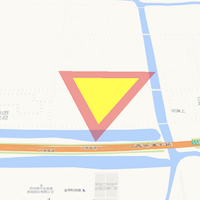
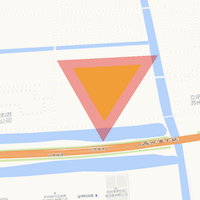
添加turf相关示例

diff --git a/pages/analysis/polygon_rotate.html b/pages/analysis/polygon_rotate.html
@@ -7,6 +7,9 @@
     let baselayer = DC.ImageryLayerFactory.createAmapImageryLayer({
       crs:"WSG84"
     })
+    viewer.setOptions({
+      enableFxaa:true
+    })
     viewer.addBaseLayer(baselayer)
     let layer = new DC.VectorLayer('layer')
     viewer.addLayer(layer)
@@ -15,21 +18,16 @@
       material:DC.Color.YELLOW
     })
     layer.addOverlay(polygon)
-    let coords = DC.GeoTools.transformPolygonScale("120.71259021075333,31.22148081085083;120.71611354431036,31.221447256684566;120.7140691869497,31.21875584696343",1.5)
-    let buffer = new DC.Polygon(coords)
-    buffer.setStyle({
+    let coords = DC.GeoTools.transformPolygonRotate("120.71259021075333,31.22148081085083;120.71611354431036,31.221447256684566;120.7140691869497,31.21875584696343",45)
+    polygon = new DC.Polygon(coords)
+    polygon.setStyle({
       zIndex:1,
-      material:DC.Color.RED.withAlpha(0.4)
+      material:DC.Color.RED.withAlpha(0.5)
     })
-    layer.addOverlay(buffer)
+    layer.addOverlay(polygon)
     viewer.flyTo(layer)
   }
   DC.ready(initViewer)
 </script>
-
-
-
-
-
 
 

diff --git a/pages/analysis/polyline_rotate.html b/pages/analysis/polyline_rotate.html
@@ -1,0 +1,34 @@
+<div id="viewer-container"></div>
+<script>
+  let viewer = undefined
+
+  function initViewer() {
+    viewer = new DC.Viewer('viewer-container')
+    let baselayer = DC.ImageryLayerFactory.createAmapImageryLayer({
+      crs:"WSG84"
+    })
+    viewer.setOptions({
+      enableFxaa:true
+    })
+    viewer.addBaseLayer(baselayer)
+    let layer = new DC.VectorLayer('layer')
+    viewer.addLayer(layer)
+    let polyline = new DC.Polyline("120.71259021075333,31.22148081085083;120.71611354431036,31.221447256684566")
+    polyline.setStyle({
+      width:5,
+      material:DC.Color.BLUE
+    })
+    layer.addOverlay(polyline)
+    let coords = DC.GeoTools.transformPolylineRotate("120.71259021075333,31.22148081085083;120.71611354431036,31.221447256684566",80)
+    polyline = new DC.Polyline(coords)
+    polyline.setStyle({
+      width:5,
+      material:DC.Color.RED
+    })
+    layer.addOverlay(polyline)
+    viewer.flyTo(layer)
+  }
+  DC.ready(initViewer)
+</script>
+
+
